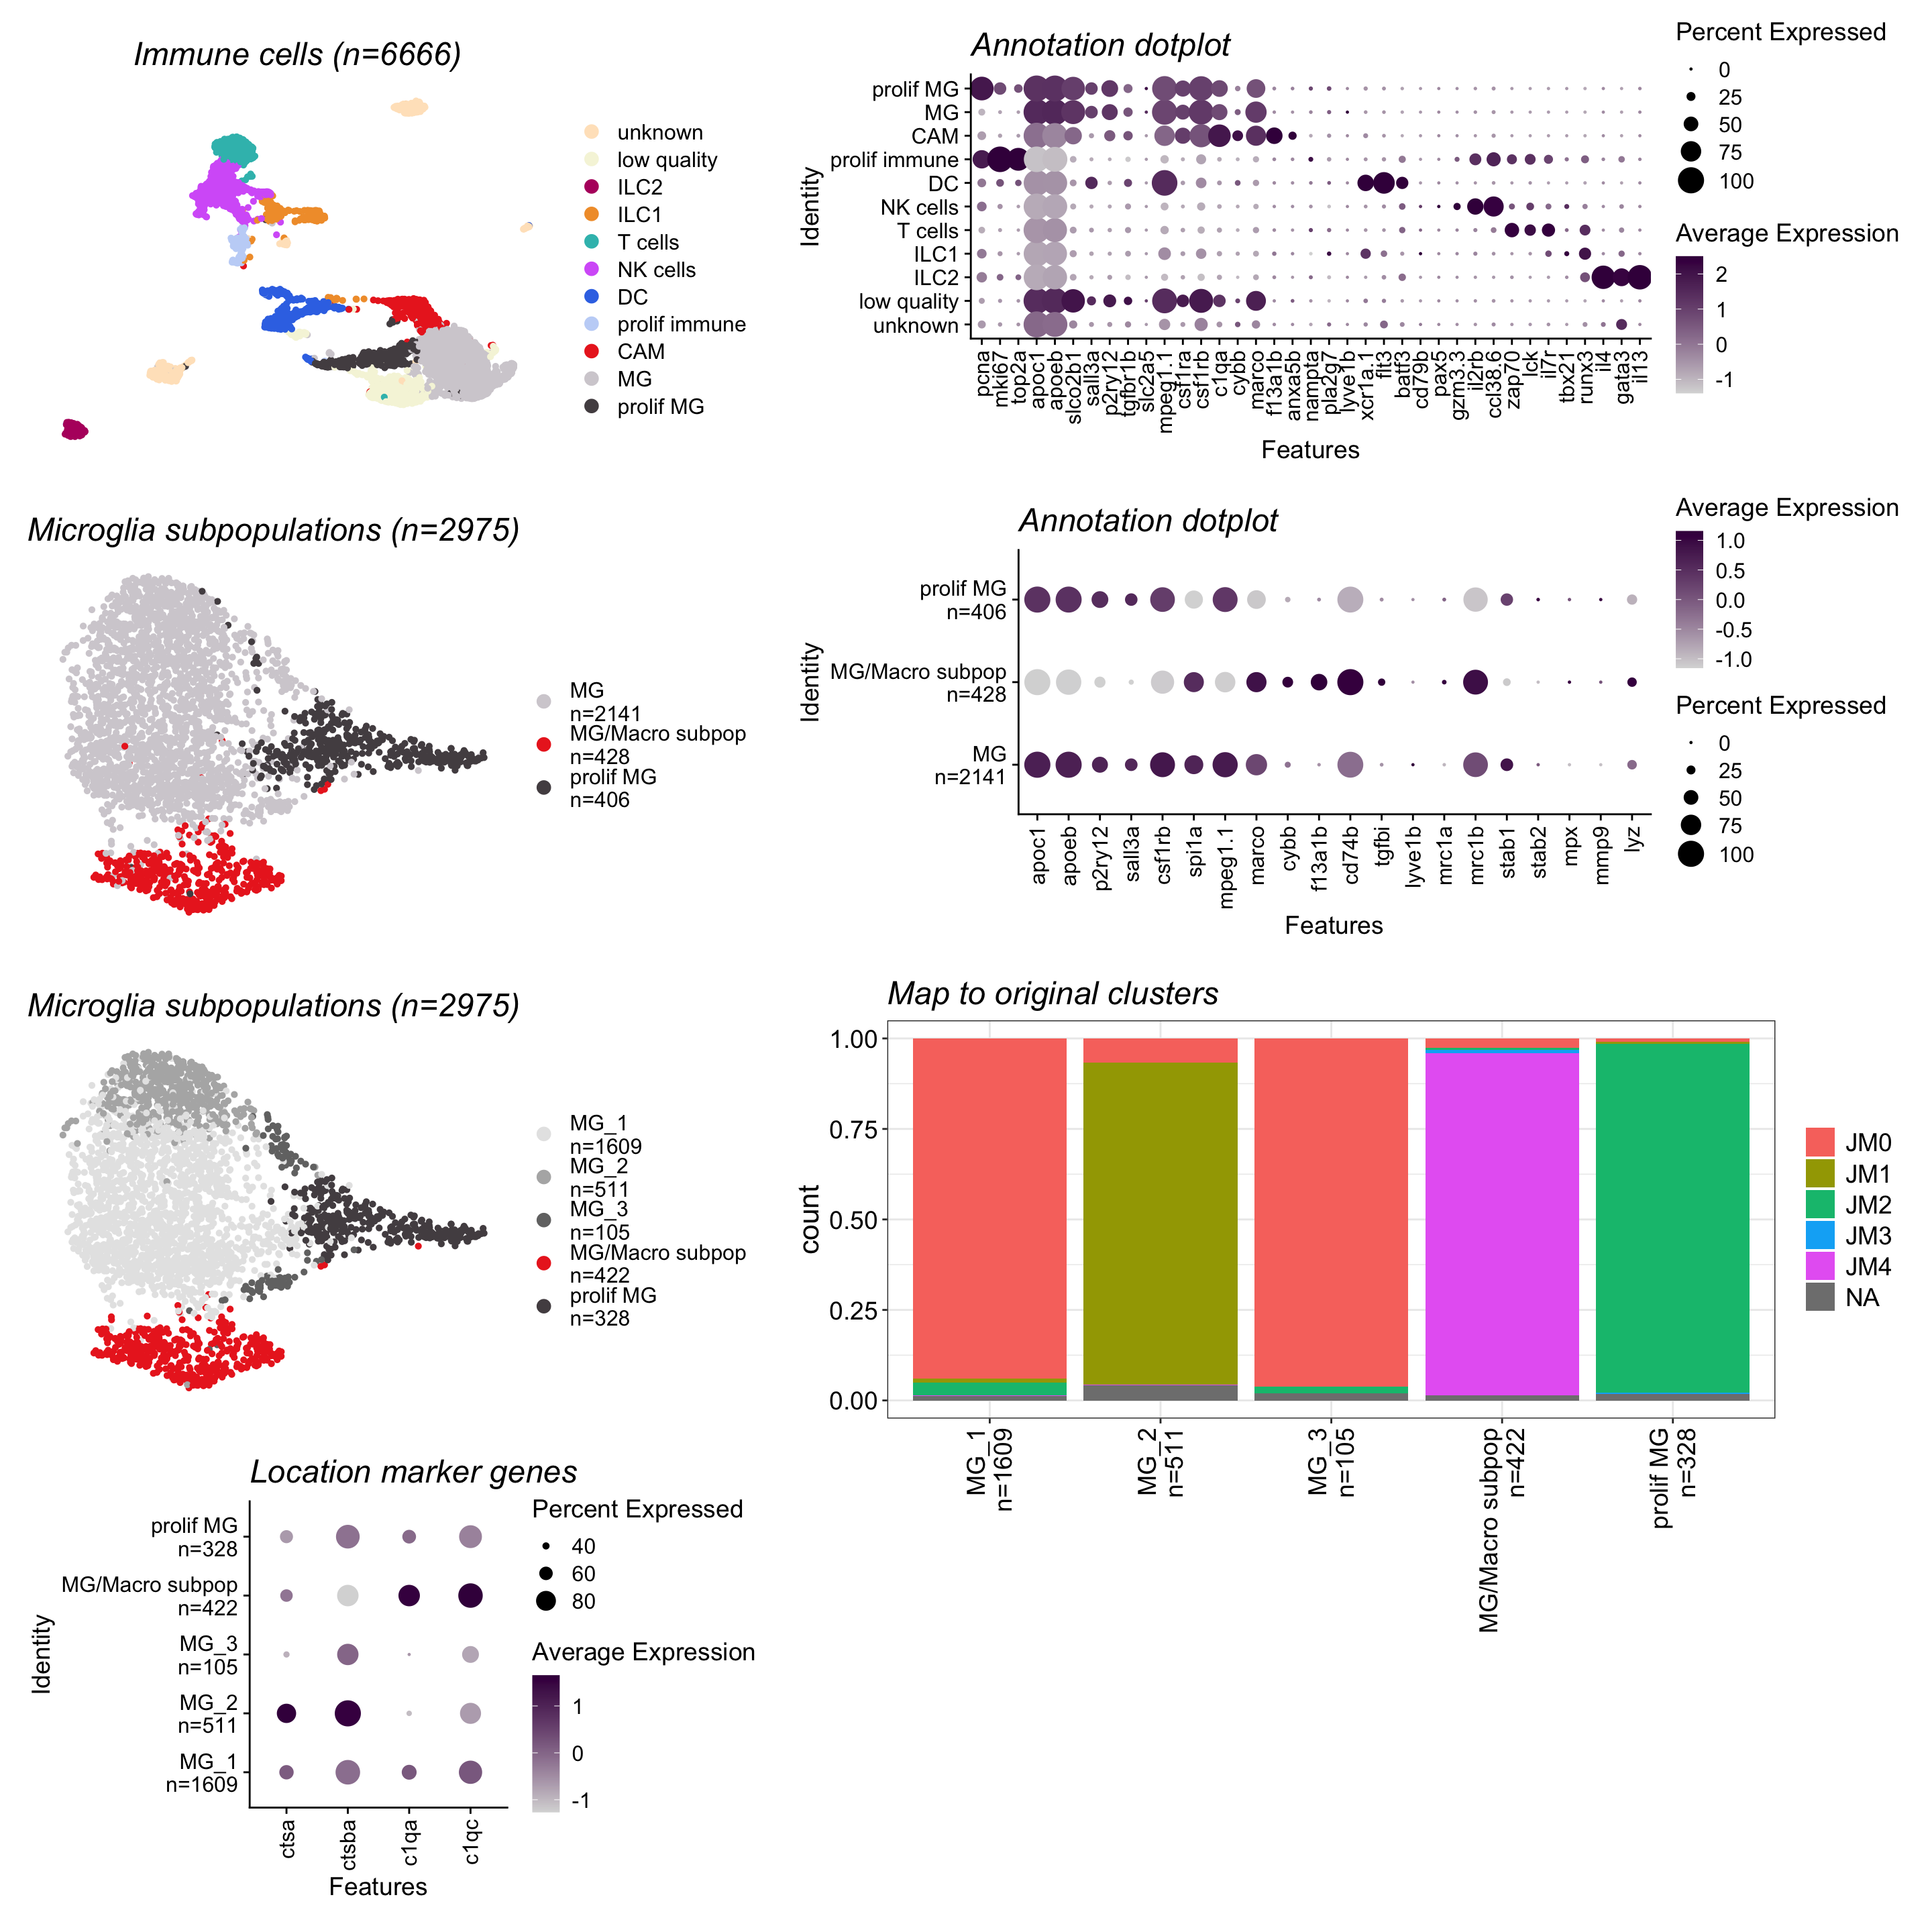
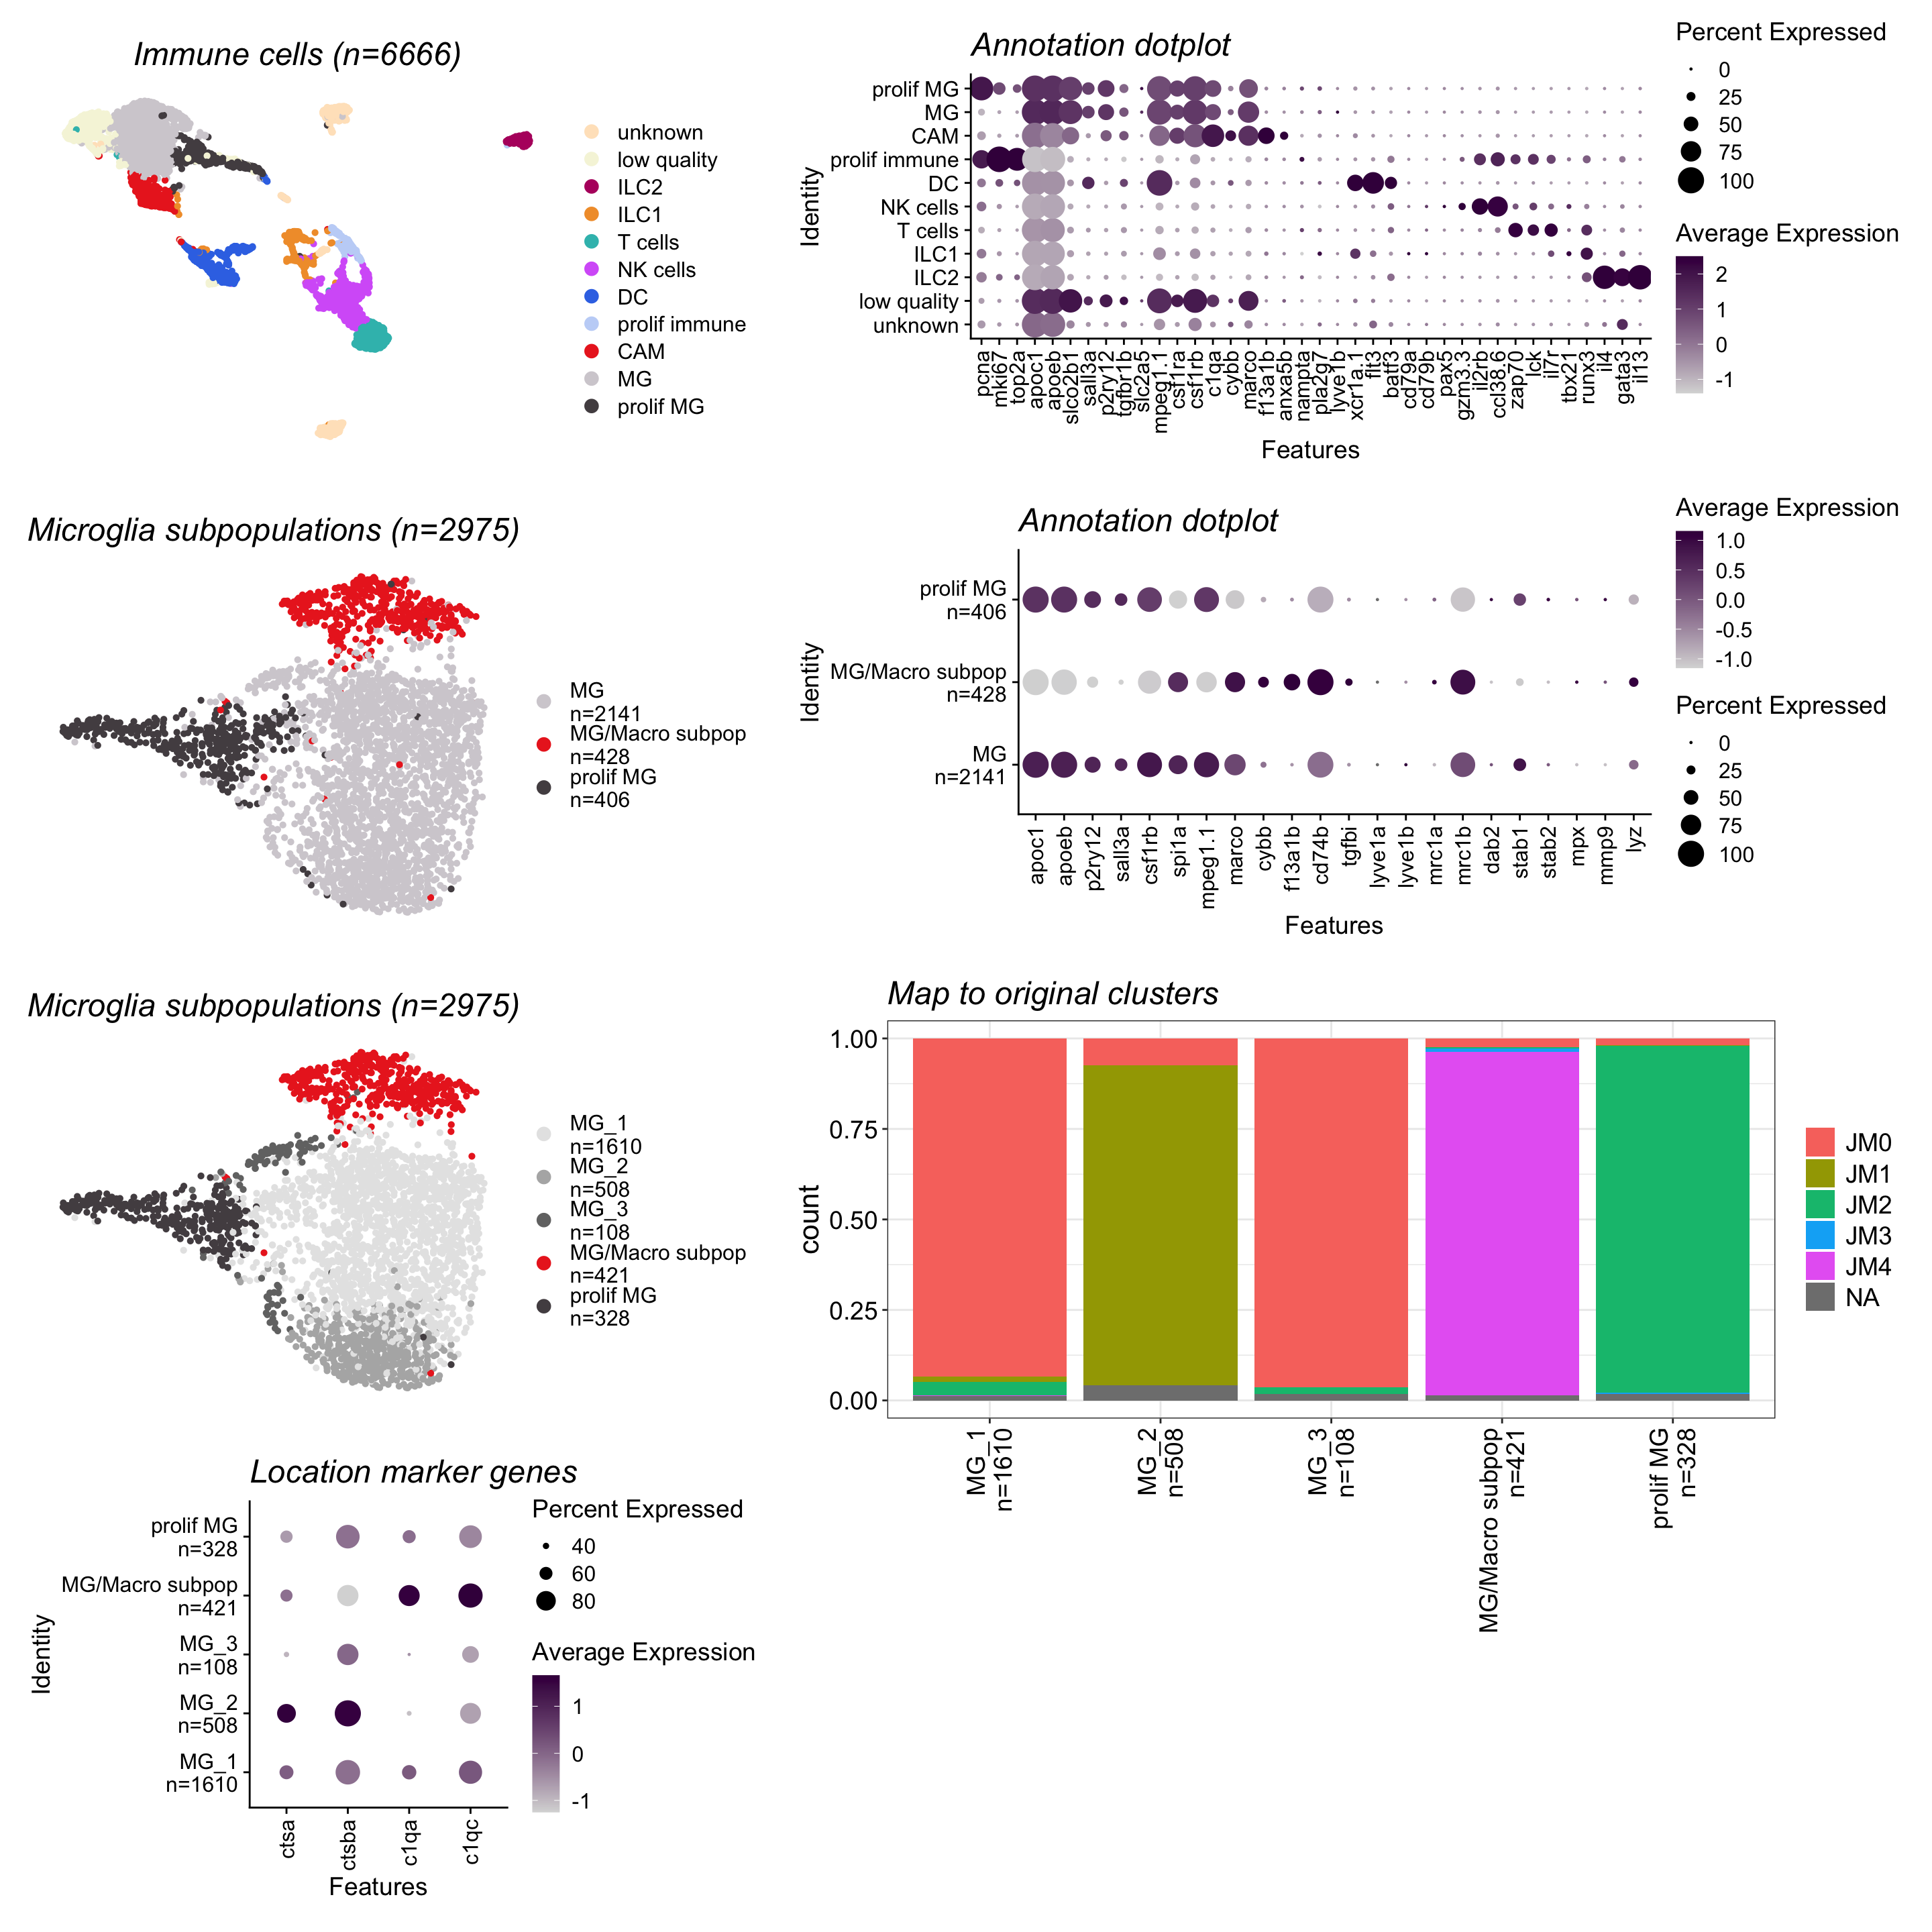
Build site.

diff --git a/docs/MakeFigures.html b/docs/MakeFigures.html
@@ -352,7 +352,7 @@ div.tocify {
 
 <h1 class="title toc-ignore">Make Figures for putative CAM analysis</h1>
 <h4 class="author">Michelle Meier</h4>
-<h4 class="date">09. June 2026</h4>
+<h4 class="date">11. June 2026</h4>
 
 </div>
 
@@ -381,7 +381,7 @@ class="glyphicon glyphicon-ok text-success" aria-hidden="true"></span>
 <div class="tab-content">
 <div id="summary" class="tab-pane fade in active">
 <p>
-<strong>Last updated:</strong> 2026-06-09
+<strong>Last updated:</strong> 2026-06-11
 </p>
 <p>
 <strong>Checks:</strong> <span
@@ -513,15 +513,15 @@ project makes it easier to run your code on other machines.</p>
 <div class="panel panel-default">
 <div class="panel-heading">
 <p class="panel-title">
-<a data-toggle="collapse" data-parent="#workflowr-checks" href="#strongRepositoryversionstrongahrefhttpsgithubcomhoganlabfishMattersArisingShimizuetaltreebfa129f192ace6e27505b54a570e2771c689e12ctargetblankbfa129fa">
+<a data-toggle="collapse" data-parent="#workflowr-checks" href="#strongRepositoryversionstrongahrefhttpsgithubcomhoganlabfishMattersArisingShimizuetaltree9d9824f39f0271a023db546a5241ec313c7274e2targetblank9d9824fa">
 <span class="glyphicon glyphicon-ok text-success"
 aria-hidden="true"></span> <strong>Repository version:</strong>
-<a href="https://github.com/hoganlab-fish/Matters_Arising_Shimizu_etal/tree/bfa129f192ace6e27505b54a570e2771c689e12c" target="_blank">bfa129f</a>
+<a href="https://github.com/hoganlab-fish/Matters_Arising_Shimizu_etal/tree/9d9824f39f0271a023db546a5241ec313c7274e2" target="_blank">9d9824f</a>
 </a>
 </p>
 </div>
 <div
[2 lines of base64/hex data omitted]
 class="panel-collapse collapse">
 <div class="panel-body">
 <p>
@@ -531,7 +531,7 @@ reproducibility.
 </p>
 <p>
 The results in this page were generated with repository version
-<a href="https://github.com/hoganlab-fish/Matters_Arising_Shimizu_etal/tree/bfa129f192ace6e27505b54a570e2771c689e12c" target="_blank">bfa129f</a>.
+<a href="https://github.com/hoganlab-fish/Matters_Arising_Shimizu_etal/tree/9d9824f39f0271a023db546a5241ec313c7274e2" target="_blank">9d9824f</a>.
 See the <em>Past versions</em> tab to see a history of the changes made
 to the R Markdown and HTML files.
 </p>
@@ -549,10 +549,10 @@ Ignored files:
     Ignored:    .DS_Store
     Ignored:    .Rhistory
     Ignored:    .Rproj.user/
-    Ignored:    analysis/figure/
     Ignored:    analysis/not_tracked/
     Ignored:    output/.DS_Store
     Ignored:    output/data/
+    Ignored:    output/figures/.DS_Store
     Ignored:    renv/
 
 </code></pre>
@@ -598,6 +598,40 @@ Message
 </tr>
 </thead>
 <tbody>
+<tr>
+<td>
+Rmd
+</td>
+<td>
+<a href="https://github.com/hoganlab-fish/Matters_Arising_Shimizu_etal/blob/9d9824f39f0271a023db546a5241ec313c7274e2/analysis/MakeFigures.Rmd" target="_blank">9d9824f</a>
+</td>
+<td>
+Michelle Meier
+</td>
+<td>
[phone redacted]
+</td>
+<td>
+wflow_publish("analysis/MakeFigures.Rmd")
+</td>
+</tr>
+<tr>
+<td>
+html
+</td>
+<td>
+<a href="https://rawcdn.githack.com/hoganlab-fish/Matters_Arising_Shimizu_etal/3b8e391eb48d70d7efe3c2250952dcbd52cdabe3/docs/MakeFigures.html" target="_blank">3b8e391</a>
+</td>
+<td>
+Michelle Meier
+</td>
+<td>
[phone redacted]
+</td>
+<td>
+Build site.
+</td>
+</tr>
 <tr>
 <td>
 Rmd
@@ -952,10 +986,10 @@ Michelle Meier
                                silva_MG$celltype == &quot;MG&quot; ~ &quot;MG\nn=2141&quot;
                                )
 
-silva_MG$celltype_subclusters &lt;- case_when(silva_MG$celltype_subclusters == &quot;CAM&quot; ~ &quot;MG/Macro subpop\nn=422&quot;,
-                               silva_MG$celltype_subclusters == &quot;MG_1&quot; ~ &quot;MG_1\nn=1609&quot;,
-                               silva_MG$celltype_subclusters == &quot;MG_2&quot; ~ &quot;MG_2\nn=511&quot;,
-                               silva_MG$celltype_subclusters == &quot;MG_3&quot; ~ &quot;MG_3\nn=105&quot;,
+silva_MG$celltype_subclusters &lt;- case_when(silva_MG$celltype_subclusters == &quot;CAM&quot; ~ &quot;MG/Macro subpop\nn=421&quot;,
+                               silva_MG$celltype_subclusters == &quot;MG_1&quot; ~ &quot;MG_1\nn=1610&quot;,
+                               silva_MG$celltype_subclusters == &quot;MG_2&quot; ~ &quot;MG_2\nn=508&quot;,
+                               silva_MG$celltype_subclusters == &quot;MG_3&quot; ~ &quot;MG_3\nn=108&quot;,
                                silva_MG$celltype_subclusters == &quot;prolif MG&quot; ~ &quot;prolif MG\nn=328&quot;
                                )</code></pre>
 <pre class="r"><code>name_all &lt;- &quot;Silva_All_ImmuneCells&quot;
@@ -970,8 +1004,8 @@ names(celltype_silva_colours) &lt;- c(&quot;prolif MG\nn=406&quot;,
                                    &quot;MG/Macro subpop\nn=428&quot;)
 
 colours_celltype_subclusters &lt;- c(&quot;#EB2C23&quot;, &quot;#544D51&quot;, &quot;grey90&quot;, &quot;grey70&quot;, &quot;grey45&quot;)
-names(colours_celltype_subclusters) &lt;- c(&quot;MG/Macro subpop\nn=422&quot;, &quot;prolif MG\nn=328&quot;,
-                                         &quot;MG_1\nn=1609&quot;, &quot;MG_2\nn=511&quot;, &quot;MG_3\nn=105&quot;)</code></pre>
+names(colours_celltype_subclusters) &lt;- c(&quot;MG/Macro subpop\nn=421&quot;, &quot;prolif MG\nn=328&quot;,
+                                         &quot;MG_1\nn=1610&quot;, &quot;MG_2\nn=508&quot;, &quot;MG_3\nn=108&quot;)</code></pre>
 <pre class="r"><code>p1 &lt;- plot_umap(seurat.object = silva_immune_all, 
                 group = &quot;celltype&quot;, 
                 cols = celltype_immune_colours, 
@@ -981,7 +1015,7 @@ names(colours_celltype_subclusters) &lt;- c(&quot;MG/Macro subpop\nn=422&quot;, 
 p2 &lt;- DotPlot(object = silva_immune_all, features = genes_immune_annotation, 
               group.by = &quot;celltype&quot;,
               cols = expression_colours) + rotate_x + ggtitle(&quot;Annotation dotplot&quot;)</code></pre>
-<pre><code>Warning: The following requested variables were not found: tgfb1, cd79a</code></pre>
+<pre><code>Warning: The following requested variables were not found: tgfb1</code></pre>
 <pre class="r"><code>ggsave(sprintf(&quot;%s/%s_dotplot_allimmunecells.pdf&quot;, output, name_all),
          p2,
          device=&quot;pdf&quot;,
@@ -999,7 +1033,6 @@ p3 &lt;- plot_umap(seurat.object = silva_MG,
 p4 &lt;- DotPlot(object = silva_MG, features = genes, 
               group.by = &quot;celltype&quot;,
               cols = expression_colours) + rotate_x + ggtitle(&quot;Annotation dotplot&quot;)</code></pre>
-<pre><code>Warning: The following requested variables were not found: lyve1a, dab2</code></pre>
 <pre><code>Warning: Scaling data with a low number of groups may produce misleading
 results</code></pre>
 <pre class="r"><code>ggsave(sprintf(&quot;%s/%s_dotplot_MG_subpop.pdf&quot;, output, name_MG),
@@ -1074,6 +1107,43 @@ wrap_elements(p1 &amp; theme(plot.title = element_text(size = 18, face = &quot;i
   wrap_elements(p7&amp; theme(plot.title = element_text(size = 18, face = &quot;italic&quot;)))+
   plot_layout(design = design_layout)</code></pre>
 <p><img src="figure/MakeFigures.Rmd/unnamed-chunk-12-1.png" width="1440" style="display: block; margin: auto;" /></p>
+<p>
+<button type="button" class="btn btn-default btn-xs btn-workflowr btn-workflowr-fig" data-toggle="collapse" data-target="#fig-unnamed-chunk-12-1">
+Past versions of unnamed-chunk-12-1.png
+</button>
+</p>
+<div id="fig-unnamed-chunk-12-1" class="collapse">
+<div class="table-responsive">
+<table class="table table-condensed table-hover">
+<thead>
+<tr>
+<th>
+Version
+</th>
+<th>
+Author
+</th>
+<th>
+Date
+</th>
+</tr>
+</thead>
+<tbody>
+<tr>
+<td>
+<a href="https://github.com/hoganlab-fish/Matters_Arising_Shimizu_etal/blob/3b8e391eb48d70d7efe3c2250952dcbd52cdabe3/docs/figure/MakeFigures.Rmd/unnamed-chunk-12-1.png" target="_blank">3b8e391</a>
+</td>
+<td>
+Michelle Meier
+</td>
+<td>
[phone redacted]
+</td>
+</tr>
+</tbody>
+</table>
+</div>
+</div>
 <br>
 <p>
 <button type="button" class="btn btn-default btn-workflowr btn-workflowr-sessioninfo" data-toggle="collapse" data-target="#workflowr-sessioninfo" style="display: block;">